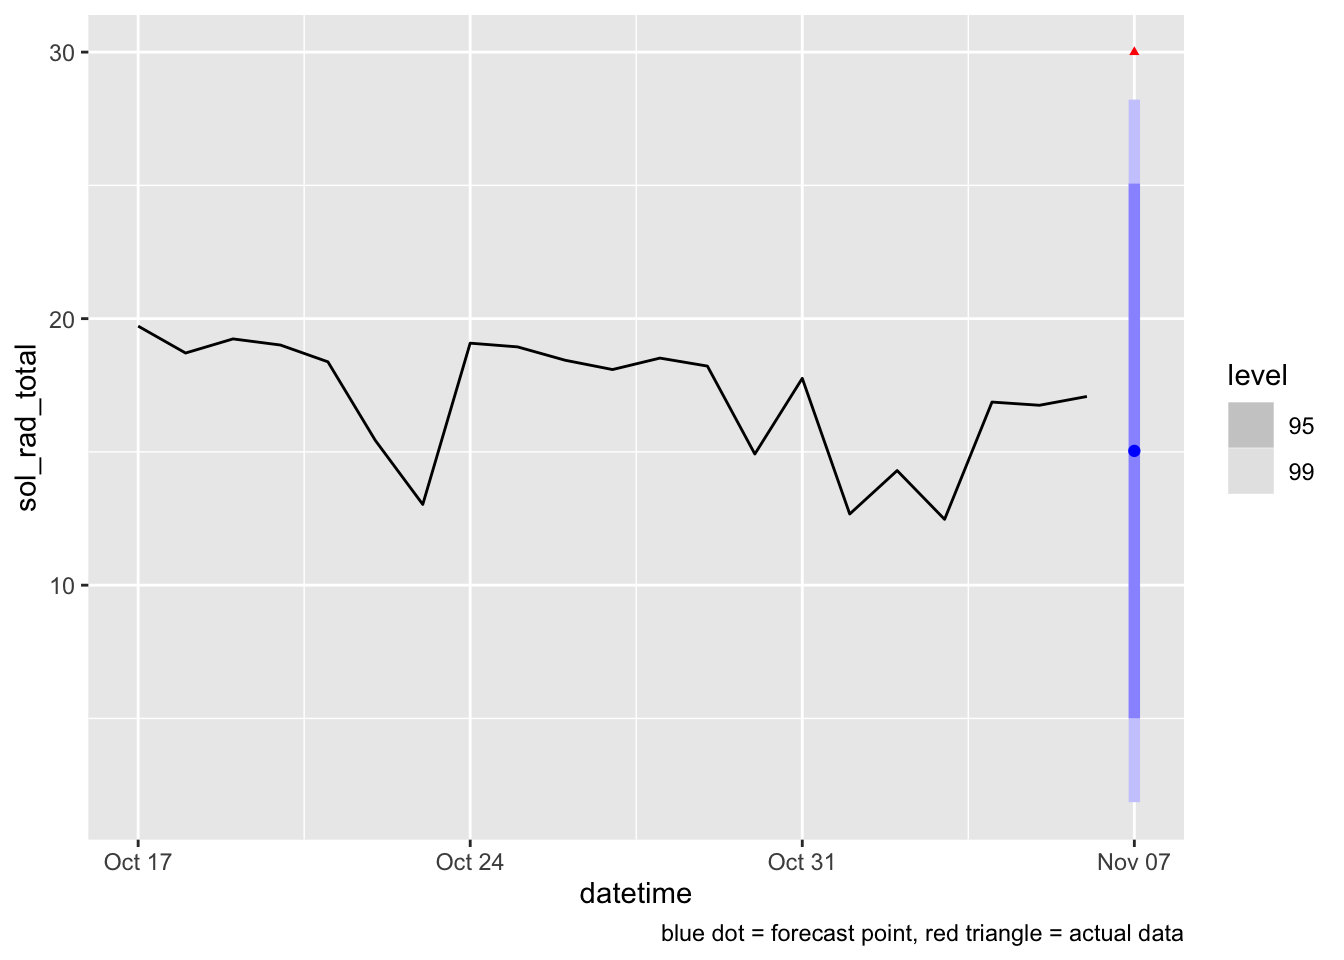
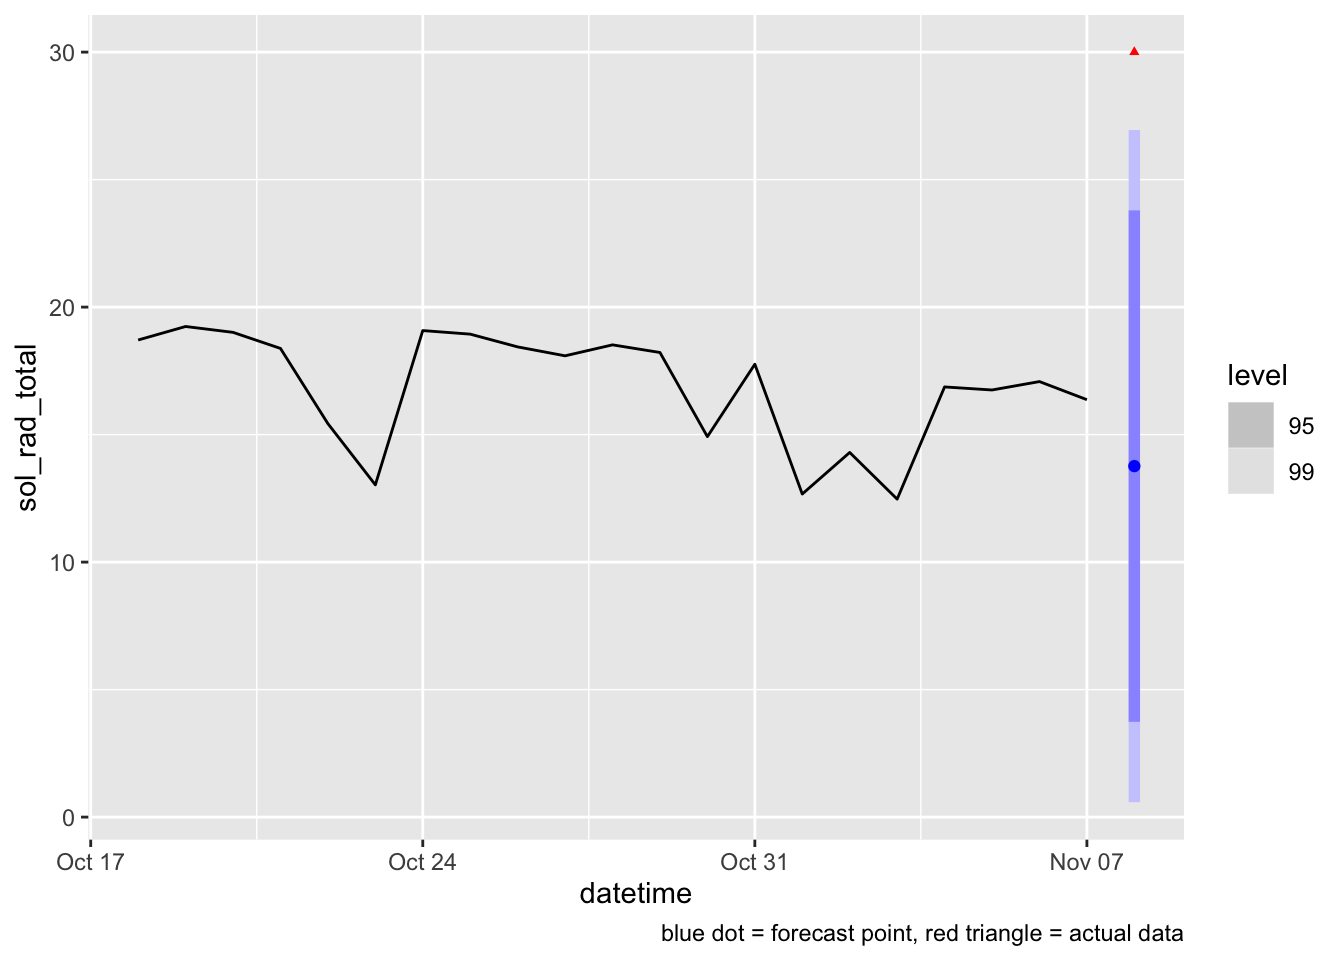
change pipeline to not save recent (2003-2022/10/31) as a separate target

diff --git a/docs/report.html b/docs/report.html
@@ -217,7 +217,7 @@ The following objects are masked from 'package:base':
 # Key:       meta_station_id, meta_station_name [1]
   meta_station_id meta_station_name datetime   sol_rad_total forecast flag   
   &lt;chr&gt;           &lt;chr&gt;             &lt;date&gt;             &lt;dbl&gt;    &lt;dbl&gt; &lt;chr&gt;  
-1 az01            Tucson            2022-11-07            30     15.0 extreme</code></pre>
+1 az01            Tucson            2022-11-08            30     13.8 extreme</code></pre>
 </div>
 </div>
 <p>Filter by stations with flags and only plot those. Or maybe embed a simple shiny app that lets you view different stations?</p>

diff --git a/README.md b/README.md
@@ -23,41 +23,45 @@ package](https://docs.ropensci.org/targets/) for workflow management.
 Run `targets::tar_make()` from the console to run the workflow and
 reproduce all results.
 
+- [QA report
+  (WIP)](https://cct-datascience.github.io/azmet-qaqc/docs/report.html)
+
 **Targets workflow:**
 
 ``` mermaid
 graph LR
   subgraph legend
-    x7420bd9270f8d27d([""Up to date""]):::uptodate --- x5b3426b4c7fa7dbc([""Started""]):::started
+    x7420bd9270f8d27d([""Up to date""]):::uptodate --- x0a52b03877696646([""Outdated""]):::outdated
+    x0a52b03877696646([""Outdated""]):::outdated --- x5b3426b4c7fa7dbc([""Started""]):::started
     x5b3426b4c7fa7dbc([""Started""]):::started --- xbf4603d6c2c2ad6b([""Stem""]):::none
     xbf4603d6c2c2ad6b([""Stem""]):::none --- xf0bce276fe2b9d3e>""Function""]:::none
   end
   subgraph Graph
     x560d2f9acfe7747b(["hist_file"]):::uptodate --> xcb07ddaf135ab507(["daily_hist"]):::uptodate
     x842666df821db265>"read_wrangle_hist"]:::uptodate --> xcb07ddaf135ab507(["daily_hist"]):::uptodate
-    x6233d5fdb54d5242(["daily"]):::uptodate --> x9a0acd6e842eb2f0(["daily_train"]):::uptodate
-    x7b318303b239462b(["daily_test"]):::uptodate --> xe0fba61fbc506510(["report"]):::uptodate
-    x2e2c913cb86ee34e(["fc_sol_rad"]):::uptodate --> xe0fba61fbc506510(["report"]):::uptodate
-    xcb07ddaf135ab507(["daily_hist"]):::uptodate --> x6233d5fdb54d5242(["daily"]):::uptodate
-    x84a5bd81bfb0b714(["daily_recent"]):::uptodate --> x6233d5fdb54d5242(["daily"]):::uptodate
-    xed180ed90a78526a>"update_daily"]:::uptodate --> x6233d5fdb54d5242(["daily"]):::uptodate
-    x9a0acd6e842eb2f0(["daily_train"]):::uptodate --> xc9de046aea785dc2(["ts_sol_rad"]):::uptodate
-    xcc4a333b0a3d9708>"fit_ts_sol_rad"]:::uptodate --> xc9de046aea785dc2(["ts_sol_rad"]):::uptodate
-    xcb07ddaf135ab507(["daily_hist"]):::uptodate --> x84a5bd81bfb0b714(["daily_recent"]):::uptodate
-    xbc27cd57aa2a1d74>"get_daily_recent"]:::uptodate --> x84a5bd81bfb0b714(["daily_recent"]):::uptodate
-    x7b318303b239462b(["daily_test"]):::uptodate --> x2e2c913cb86ee34e(["fc_sol_rad"]):::uptodate
-    x9b63e5b64de3fce2>"forecast_sol_rad"]:::uptodate --> x2e2c913cb86ee34e(["fc_sol_rad"]):::uptodate
-    xc9de046aea785dc2(["ts_sol_rad"]):::uptodate --> x2e2c913cb86ee34e(["fc_sol_rad"]):::uptodate
-    x6233d5fdb54d5242(["daily"]):::uptodate --> x7b318303b239462b(["daily_test"]):::uptodate
+    x7b318303b239462b(["daily_test"]):::outdated --> xe0fba61fbc506510(["report"]):::outdated
+    x9a0acd6e842eb2f0(["daily_train"]):::outdated --> xe0fba61fbc506510(["report"]):::outdated
+    x2e2c913cb86ee34e(["fc_sol_rad"]):::outdated --> xe0fba61fbc506510(["report"]):::outdated
+    x9a0acd6e842eb2f0(["daily_train"]):::outdated --> xc9de046aea785dc2(["ts_sol_rad"]):::outdated
+    xcc4a333b0a3d9708>"fit_ts_sol_rad"]:::uptodate --> xc9de046aea785dc2(["ts_sol_rad"]):::outdated
+    xcb07ddaf135ab507(["daily_hist"]):::uptodate --> x84a5bd81bfb0b714(["daily_recent"]):::outdated
+    xbc27cd57aa2a1d74>"get_daily_recent"]:::uptodate --> x84a5bd81bfb0b714(["daily_recent"]):::outdated
+    x7b318303b239462b(["daily_test"]):::outdated --> x2e2c913cb86ee34e(["fc_sol_rad"]):::outdated
+    x9b63e5b64de3fce2>"forecast_sol_rad"]:::uptodate --> x2e2c913cb86ee34e(["fc_sol_rad"]):::outdated
+    xc9de046aea785dc2(["ts_sol_rad"]):::outdated --> x2e2c913cb86ee34e(["fc_sol_rad"]):::outdated
     x6e52cb0f1668cc22(["readme"]):::started --> x6e52cb0f1668cc22(["readme"]):::started
+    xed180ed90a78526a>"update_daily"]:::uptodate --> xed180ed90a78526a>"update_daily"]:::uptodate
   end
   classDef uptodate stroke:#000000,color:#ffffff,fill:#354823;
+  classDef outdated stroke:#000000,color:#000000,fill:#78B7C5;
   classDef started stroke:#000000,color:#000000,fill:#DC863B;
   classDef none stroke:#000000,color:#000000,fill:#94a4ac;
   linkStyle 0 stroke-width:0px;
   linkStyle 1 stroke-width:0px;
   linkStyle 2 stroke-width:0px;
-  linkStyle 19 stroke-width:0px;
+  linkStyle 3 stroke-width:0px;
+  linkStyle 16 stroke-width:0px;
+  linkStyle 17 stroke-width:0px;
 ```
 
 ## Repo Structure
@@ -77,10 +81,6 @@ graph LR
 - `_targets.R` defines a `targets` workflow
 - `_targets` is generated by `targets::tar_make()` and only the metadata
   of the targets pipeline is on github.
-
-Rendered reports available:
-
-- [report](https://cct-datascience.github.io/azmet-qaqc/docs/report.html)
 
 ## Collaboration guidelines
 
